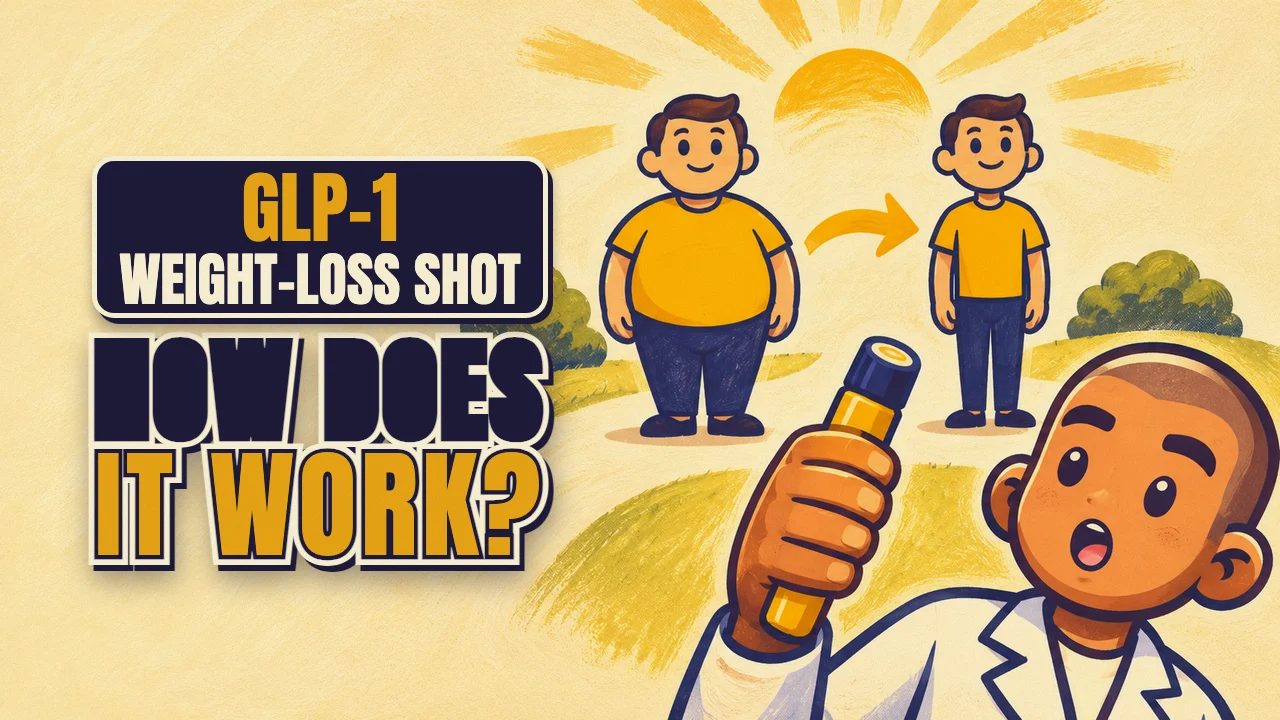
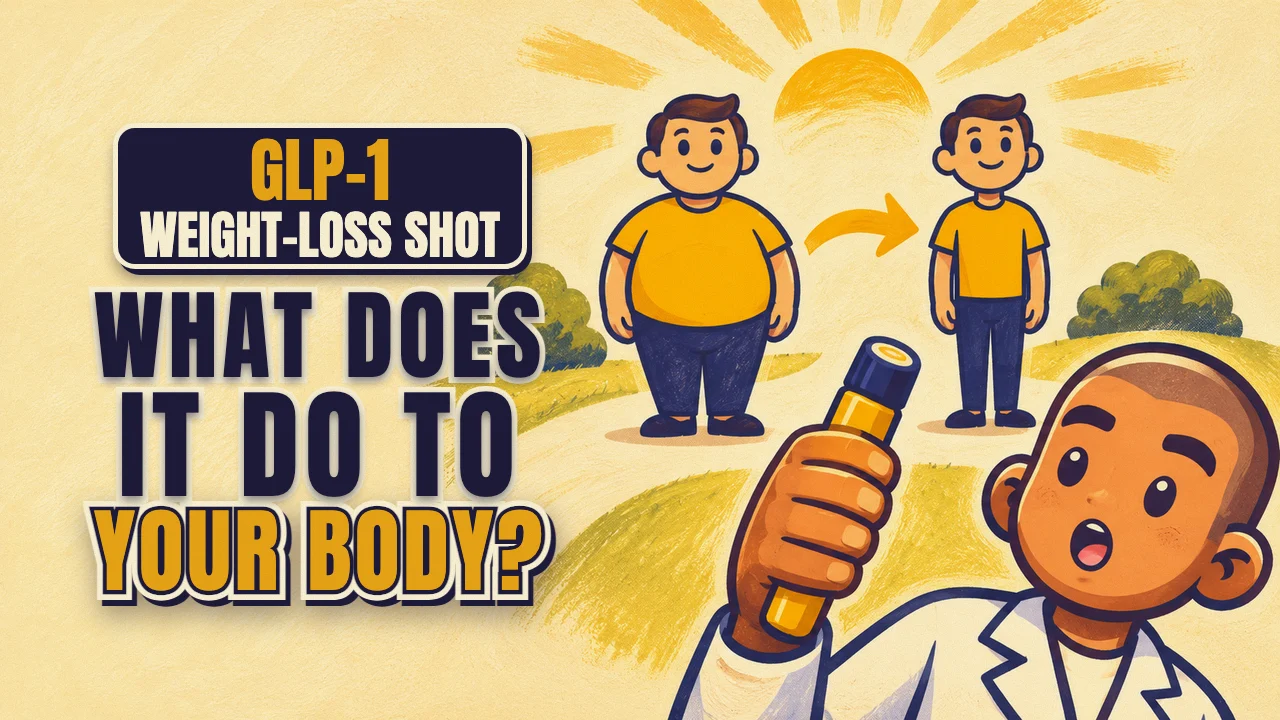
EP5 card thumbnail -> WHAT DOES IT DO TO YOUR BODY? / «ماذا تفعل بجسمك؟» (Mo 11-07-2026)

Changed region(s): [[0.0625, 0.1528, 0.4375, 0.8861]]

diff --git a/index.html b/index.html
@@ -638,8 +638,8 @@ html[data-theme="light"] .f-chem{--c:#A16207!important}
         <div class="ep-card">
           <div class="ep-thumb">
             <span class="ep-pic">
-              <img class="pic-en" src="episodes/assets/ep05/thumb-en-960.webp" srcset="episodes/assets/ep05/thumb-en-960.webp 960w, episodes/assets/ep05/thumb-en.webp 1280w" sizes="(max-width:640px) 92vw, 760px" width="1280" height="720" alt="GLP-1 weight-loss shot: how does it work? Episode 5" loading="lazy">
-              <img class="pic-ar" src="episodes/assets/ep05/thumb-ar-960.webp" srcset="episodes/assets/ep05/thumb-ar-960.webp 960w, episodes/assets/ep05/thumb-ar.webp 1280w" sizes="(max-width:640px) 92vw, 760px" width="1280" height="720" alt="إبرة تنحيف GLP-1: كيف تعمل؟ الحلقة 5" loading="lazy">
+              <img class="pic-en" src="episodes/assets/ep05/thumb-en-960.webp" srcset="episodes/assets/ep05/thumb-en-960.webp 960w, episodes/assets/ep05/thumb-en.webp 1280w" sizes="(max-width:640px) 92vw, 760px" width="1280" height="720" alt="GLP-1 weight-loss shot: what does it do to your body? Episode 5" loading="lazy">
+              <img class="pic-ar" src="episodes/assets/ep05/thumb-ar-960.webp" srcset="episodes/assets/ep05/thumb-ar-960.webp 960w, episodes/assets/ep05/thumb-ar.webp 1280w" sizes="(max-width:640px) 92vw, 760px" width="1280" height="720" alt="إبرة تنحيف GLP-1: ماذا تفعل بجسمك؟ الحلقة 5" loading="lazy">
             </span>
             <span class="ep-strip">
               <img class="logo-en" src="assets/logo-white.png" alt="Addani Labs" width="480" height="151"><img class="logo-ar" src="assets/logo-ar-white.png" alt="مختبرات عداني" width="978" height="210">
